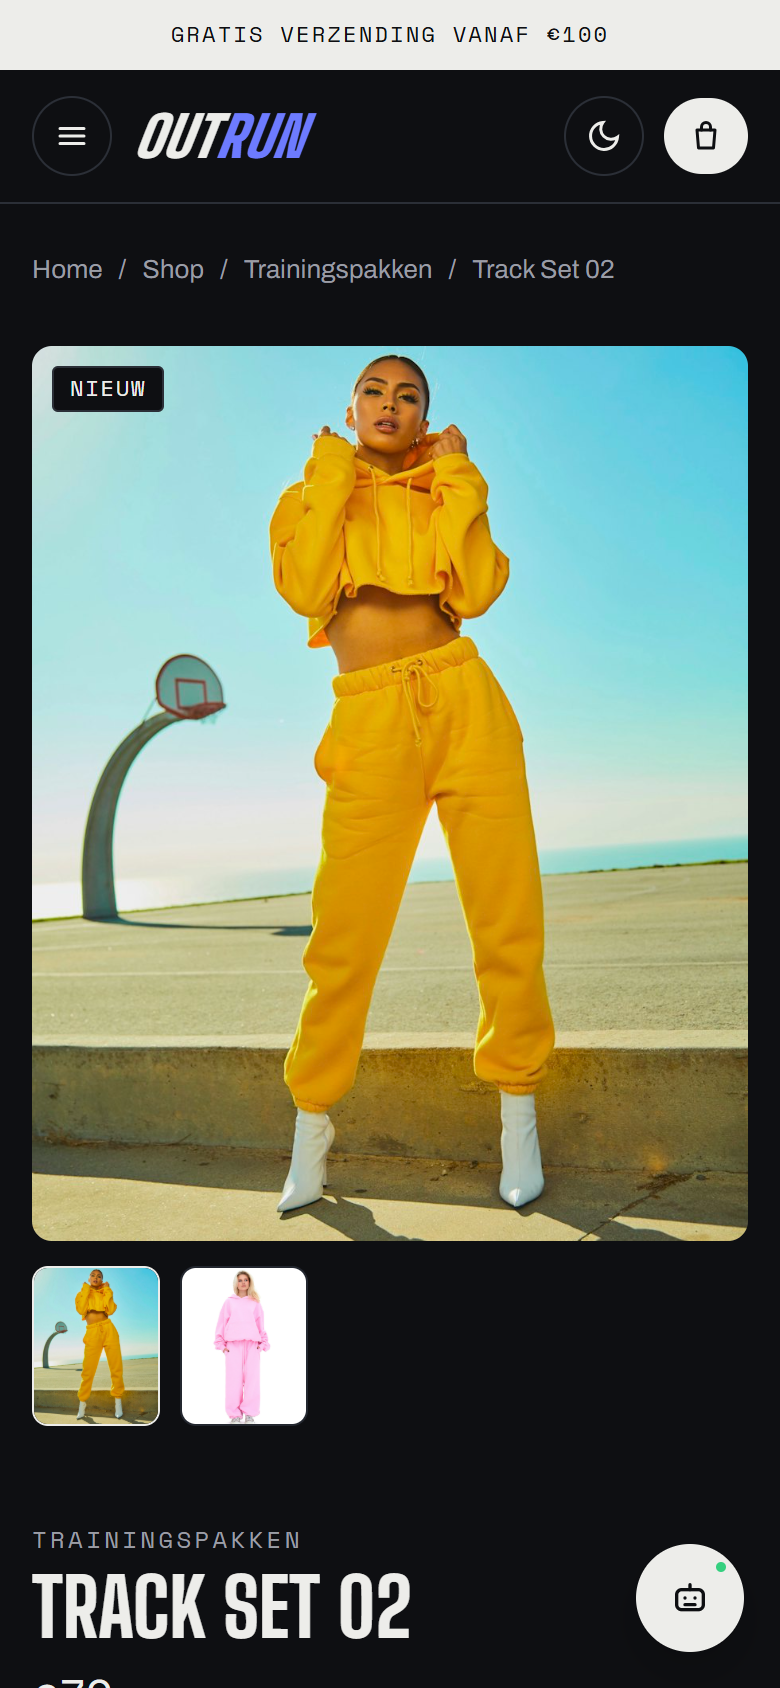
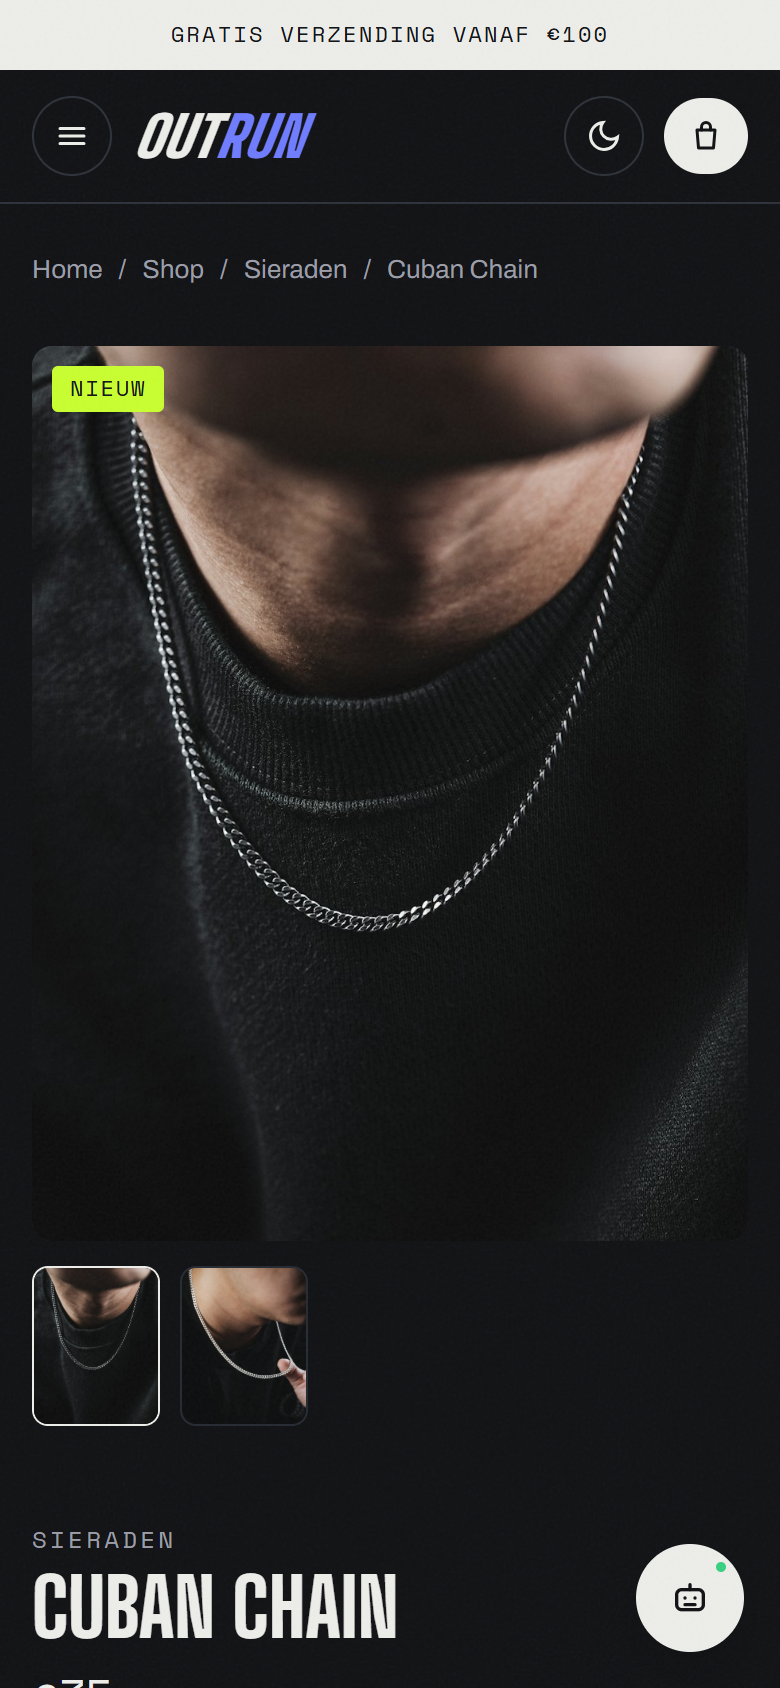
README bijgewerkt: pagina-overzicht en nieuwe screenshots van intro, chatbot, afrekenen en sieraden op mobiel

diff --git a/README.md b/README.md
@@ -40,20 +40,20 @@ OUTRUN is een complete webshop zonder backend en zonder framework, met 46 items 
 | --- | --- |
 | ![Winkelmand](docs/cart.png) | ![Afrekenen](docs/checkout.png) |
 
-| Mobiel | Mobiel, donker |
+| Mobiel | Sieraden op mobiel, donker |
 | --- | --- |
-| <img src="docs/mobile.png" width="320" alt="Homepage op mobiel"> | <img src="docs/mobile-dark.png" width="320" alt="Productpagina op mobiel in dark mode"> |
+| <img src="docs/mobile.png" width="320" alt="Homepage op mobiel"> | <img src="docs/mobile-dark.png" width="320" alt="Cuban Chain op mobiel in dark mode"> |
 
 ## Pagina's
 
 | Pagina | Inhoud |
 | --- | --- |
-| `index.html` | Hero, categorieën, nieuwe items, "Binnenkort"-banner, laatste stuks |
+| `index.html` | Hero met live HUD, scroll-statement, 3D-drop-ring, categorieën, nieuwe items, accessoires-bento, lookbook-strook, laatste stuks en de drop-countdown |
 | `shop.html` | Alle producten. Filter op categorie, maat, "Nieuw", "Sale" en "alleen op voorraad", met zoeken, sorteren en 2 tot 5 kolommen. De filters staan in de URL. |
-| `product.html?id=…` | Foto's per kleur, kleur- en maatkeuze, voorraadmelding, "In winkelmand", gerelateerde items |
+| `product.html?id=…` | Foto's per kleur, artikelnummer, kleur- en maatkeuze, voorraadmelding, "In winkelmand", gerelateerde items met een passend accessoire of sieraad |
 | `afrekenen.html` | Gegevens, verzenden of ophalen, overzicht met verzendkosten, bedankpagina met bestelnummer |
 | `lookbook.html` | Looks met links naar de producten die erin zitten |
-| `maten.html` | Maattabellen en een maatcalculator |
+| `maten.html` | Maattabellen voor kleding, schoenen, accessoires en sieraden, en een maatcalculator |
 | `aanvragen.html` | Iets aanvragen dat niet in de shop staat, met foto-upload |
 | `info.html` | Veelgestelde vragen over bestellen, betalen, verzenden en ruilen |
 | `over.html` | Het verhaal achter het merk |
